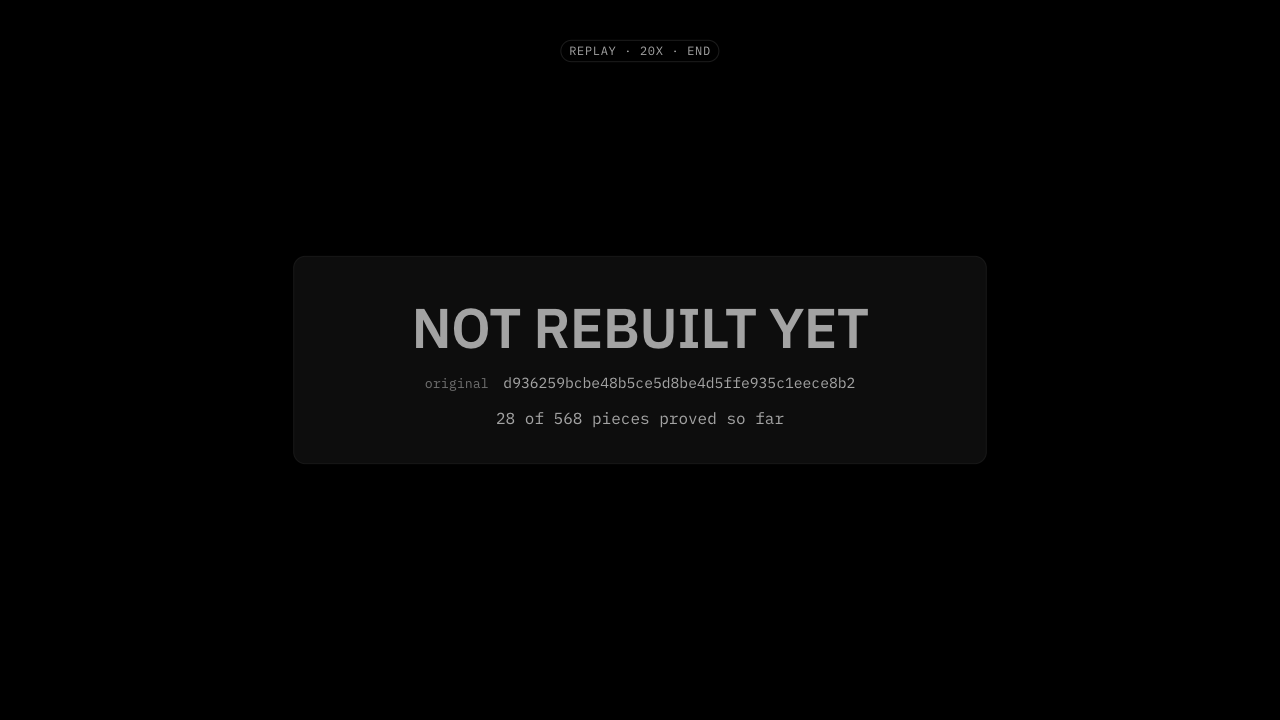
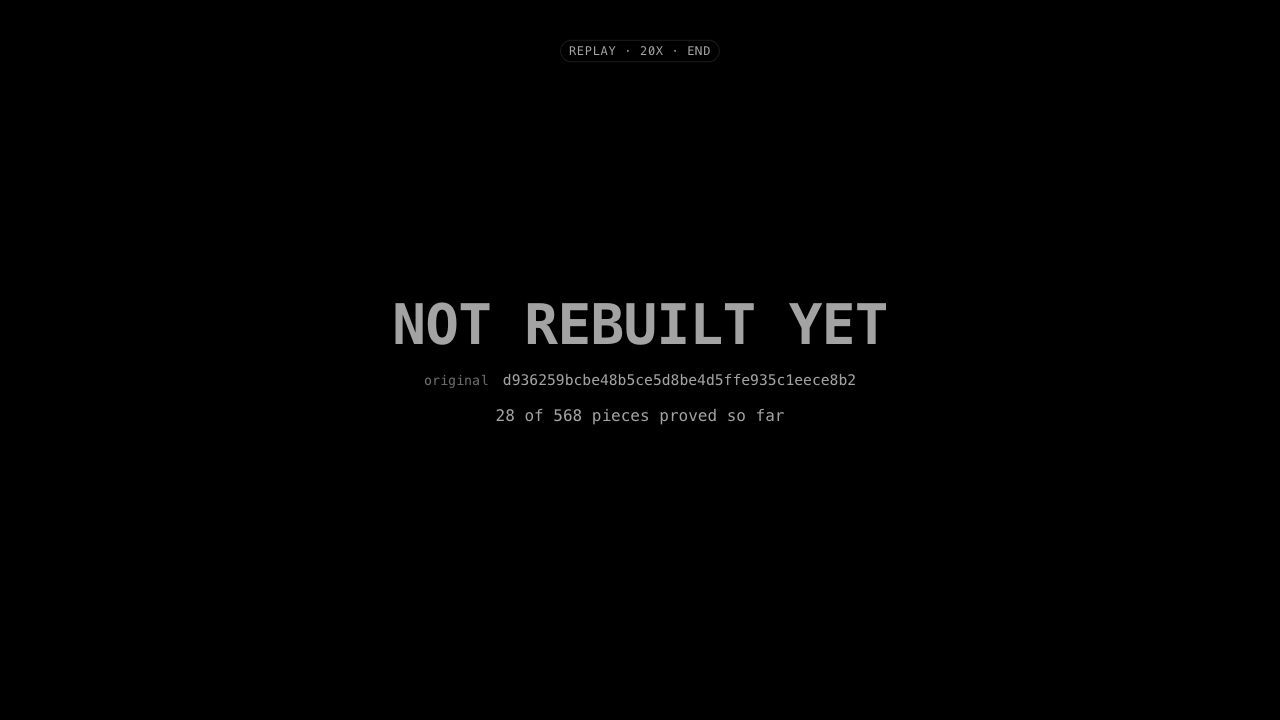
stage: the game takes the screen; the log is a slim terminal column
The game window grows to the GBA at 5x (x 40, y 140, 1200x800; Lane D's OBS
capture must move, see stage/HANDOFF_D.md). The log becomes a narrow column on
the right in the system terminal font (SF Mono / Menlo), no panel box, no
italics, up to 14 lines, and the key line under it is gone. The ending card
drops its box too.

Changed region(s): [[0.2812, 0.3972, 0.6875, 0.4889], [0.3438, 0.5194, 0.6875, 0.6111]]

diff --git a/stage/src/scenes/log.css b/stage/src/scenes/log.css
@@ -8,14 +8,15 @@
 .logscene, .cardscene {
   --ink: #ededed; --soft: #a3a3a3; --mute: #6e6e6e; --line: #1f1f1f; --panel: #0d0d0d; --row: #151515;
   --ok: #4fce8a; --no: #ee6e65; --paper: #000;
-  --sans: 'IBM Plex Sans', -apple-system, 'Helvetica Neue', Arial, sans-serif;
-  --mono: 'IBM Plex Mono', ui-monospace, Menlo, monospace;
+  /* the terminal font (what Claude Code and GitHub logs show on a Mac); Plex Mono only as a fallback */
+  --mono: ui-monospace, 'SF Mono', SFMono-Regular, Menlo, Consolas, 'IBM Plex Mono', monospace;
+  --sans: var(--mono);
   background: var(--paper); color: var(--ink);
 }
 body.obs .logscene { background: transparent; }
 
 .lg-game {
-  position: absolute; left: 20px; top: 92px; width: 960px; height: 640px;
+  position: absolute; left: 40px; top: 140px; width: 1200px; height: 800px; /* GBA 240x160 at 5x */
   border: 1px solid var(--line); border-radius: 14px; overflow: hidden; background: var(--panel);
   display: grid; place-items: center; font: 400 22px/1 var(--mono); color: var(--mute);
 }
@@ -23,41 +24,40 @@ body.obs .logscene { background: transparent; }
 body.obs .lg-game { border-color: transparent; background: transparent; }
 body.obs .lg-game span { display: none; }
 
-.lg-side { position: absolute; left: 1020px; top: 92px; width: 860px; }
-.lg-panel { background: var(--panel); border: 1px solid var(--line); border-radius: 14px; padding: 26px 22px 18px; }
+.lg-side { position: absolute; left: 1290px; top: 140px; width: 590px; }
+.lg-panel { padding: 8px 0 0; }
 
-.lg-head { display: flex; align-items: baseline; justify-content: space-between; gap: 20px; padding: 0 10px 22px; white-space: nowrap; }
-.lg-head .cnt { font: 500 30px/1 var(--sans); color: var(--ink); }
-.lg-head .cnt b { font-weight: 600; font-size: 44px; }
+.lg-head { display: grid; gap: 12px; padding: 0 0 18px; white-space: nowrap; border-bottom: 1px solid var(--line); margin-bottom: 8px; }
+.lg-head .cnt { font: 500 22px/1 var(--sans); color: var(--ink); }
+.lg-head .cnt b { font-weight: 600; font-size: 30px; }
 .lg-head .cnt span { color: var(--mute); }
-.lg-head .tot { display: flex; gap: 18px; font: 400 24px/1 var(--mono); }
+.lg-head .tot { display: flex; gap: 16px; font: 400 18px/1 var(--mono); }
 .lg-head .tot em { font-style: normal; }
 .lg-head .tot .p { color: var(--ok); }
 .lg-head .tot .r { color: var(--no); }
 
 .lg-log { list-style: none; display: grid; gap: 4px; }
 .lg-log li {
-  display: grid; grid-template-columns: 30px minmax(0, 1fr) auto; column-gap: 14px; align-items: center;
-  padding: 14px 12px; border-radius: 10px; font: 400 26px/1.2 var(--mono); color: var(--soft); white-space: nowrap;
+  display: grid; grid-template-columns: 22px minmax(0, 1fr) auto; column-gap: 10px; align-items: center;
+  padding: 9px 0; font: 400 20px/1.2 var(--mono); color: var(--soft); white-space: nowrap;
 }
-.lg-log li:first-child { background: var(--row); color: var(--ink); animation: lgin 300ms ease-out; }
-.lg-log li i { font-style: normal; font-size: 24px; text-align: center; }
+.lg-log li:first-child { color: var(--ink); animation: lgin 300ms ease-out; }
+.lg-log li i { font-style: normal; font-size: 18px; text-align: center; }
 .lg-log li .nm { overflow: hidden; text-overflow: ellipsis; }
-.lg-log li .nm.guess { font-style: italic; }
+.lg-log li .nm.guess { font-style: normal; }
 .lg-log li .nm em { font-style: normal; color: var(--mute); }
-.lg-log li .st { font: 400 22px/1 var(--mono); }
+.lg-log li .st { font: 400 18px/1 var(--mono); }
 .lg-log li.ok i, .lg-log li.ok .st { color: var(--ok); }
 .lg-log li.no i, .lg-log li.no .st { color: var(--no); }
-.lg-log li.no .why { grid-column: 2 / 4; font: 400 20px/1.3 var(--mono); color: var(--mute); padding-top: 6px; overflow: hidden; text-overflow: ellipsis; }
+.lg-log li.no .why { grid-column: 2 / 4; font: 400 18px/1.3 var(--mono); color: var(--mute); padding-top: 6px; overflow: hidden; text-overflow: ellipsis; }
 .lg-log li.wait { display: block; color: var(--mute); background: none; }
 @keyframes lgin { from { opacity: 0; } to { opacity: 1; } }
 
-.lg-key { margin: 16px 12px 0; font: 400 18px/1.4 var(--mono); color: var(--mute); }
 
 /* the honesty label (REPLAY · 8X, SAMPLE DATA, NO SIGNAL): a small outlined pill above the panel, never a block */
 .stage[data-scene='log'] #mark, .stage[data-scene='card'] #mark {
-  top: 40px; bottom: auto; right: auto; left: 1020px; background: transparent; color: #a3a3a3;
-  font: 400 18px/1 'IBM Plex Mono', ui-monospace, monospace; letter-spacing: 1px; text-transform: uppercase;
+  top: 92px; bottom: auto; right: auto; left: 1290px; background: transparent; color: #a3a3a3;
+  font: 400 18px/1 ui-monospace, 'SF Mono', Menlo, monospace; letter-spacing: 1px; text-transform: uppercase;
   padding: 7px 12px 6px; border: 1px solid #2a2a2a; border-radius: 999px; text-align: left; box-shadow: none;
 }
 .stage[data-scene='card'] #mark { left: 50%; transform: translateX(-50%); top: 60px; }

diff --git a/stage/src/scenes/card.css b/stage/src/scenes/card.css
@@ -2,7 +2,7 @@
 .cardscene { display: grid; place-items: center; }
 .cd-main {
   text-align: center; display: grid; justify-items: center; gap: 30px;
-  background: var(--panel); border: 1px solid var(--line); border-radius: 18px; padding: 64px 88px 56px; min-width: 1040px;
+  padding: 0;
 }
 .cd-big { font: 600 112px/1 var(--sans); letter-spacing: -1px; }
 .cd-big.ok { color: var(--ok); }
@@ -20,7 +20,7 @@
 .cd-credits { display: none; grid-template-columns: 1fr 1fr; gap: 64px; width: 1600px; }
 .cardscene.show-credits .cd-main { display: none; }
 .cardscene.show-credits .cd-credits { display: grid; }
-.cd-credits .col { background: var(--panel); border: 1px solid var(--line); border-radius: 18px; padding: 44px 48px; }
+.cd-credits .col { padding: 0; }
 .cd-credits h2 { font: 600 40px/1 var(--sans); color: var(--ink); }
 .cd-credits p { font: 400 20px/1 var(--mono); color: var(--mute); margin-top: 14px; }
 .cd-credits ul { list-style: none; margin-top: 28px; display: grid; gap: 18px; }

diff --git a/stage/src/scenes/log.ts b/stage/src/scenes/log.ts
@@ -7,7 +7,7 @@ import type { Ctx, Scene } from '../types.ts';
 import { h, esc } from '../types.ts';
 import { gameTotal } from './common.ts';
 
-const LINES = 8;
+const LINES = 14;
 
 type Entry = { ts: number; ok: boolean; fn: string; why: string };
 
@@ -38,7 +38,6 @@ export class LogScene implements Scene {
           </div>
           <ol class="lg-log" data-k="log"></ol>
         </div>
-        <div class="lg-key">? = our guess · everything else is proved by the compiler</div>
       </div>`;
   }
 

diff --git a/stage/README.md b/stage/README.md
@@ -37,7 +37,7 @@ Keys: `0` Title · `1` Rebuild · `2` Caught · `3` Faster · `4` Alive · `spac
 
 ## Default: one log screen and an ending card
 
-`/` shows the game window (x 20, y 92, 960×640) and, on the right, "N / 568 pieces rebuilt" with a plain-English log, newest first: "✓ name? proved" in green, "✗ name? REJECTED, claimed right, why" in red (real verdicts and fake rejections only, at most 8 lines). `space` toggles the ending card (IDENTICAL, both checksums, IT'S ALIVE, the phone link; NOT REBUILT YET until `build.rom` proves it); `c` on the card shows Built today / Not ours. Silent: no sounds, voice or beams. Everything below is the earlier multi-scene Stage, still available with `?legacy=1`.
+`/` shows the game window (x 40, y 140, 1200×800, the GBA at 5×) and, on the right, "N / 568 pieces rebuilt" with a plain-English log, newest first: "✓ name? proved" in green, "✗ name? REJECTED, claimed right, why" in red (real verdicts and fake rejections only, at most 8 lines). `space` toggles the ending card (IDENTICAL, both checksums, IT'S ALIVE, the phone link; NOT REBUILT YET until `build.rom` proves it); `c` on the card shows Built today / Not ours. Silent: no sounds, voice or beams. Everything below is the earlier multi-scene Stage, still available with `?legacy=1`.
 
 ## Screens (minimal, Doom-inspired: one idea per screen)
 

diff --git a/stage/HANDOFF_D.md b/stage/HANDOFF_D.md
@@ -27,3 +27,8 @@
 - **`space`** toggles the main screen and the ending card (IDENTICAL + both checksums + IT'S ALIVE only when `build.rom` proves it; "Play it on your phone: <url>" after `phone.published`). **`c`** on the card shows Built today / Not ours.
 - **Old scenes and director mode** are kept but only with `?legacy=1`.
 - Replay (`?replay=doom_r01&speed=8`), REPLAY / SAMPLE DATA labels and `npm run demo` are unchanged.
+
+## Update 14:13 (Lane C): **the game window moved and grew** (breaking for OBS)
+
+- Default Stage game window is now **x 40, y 140, 1200×800** (GBA 240×160 at an integer **5×**), was x 20, y 92, 960×640. Please move the mGBA capture in OBS to match. `?obs=1` still makes it transparent; `?game=http://127.0.0.1:7401/` still embeds your player there.
+- The log is a narrow column on the right (x 1290 to 1880). No other changes for you.
